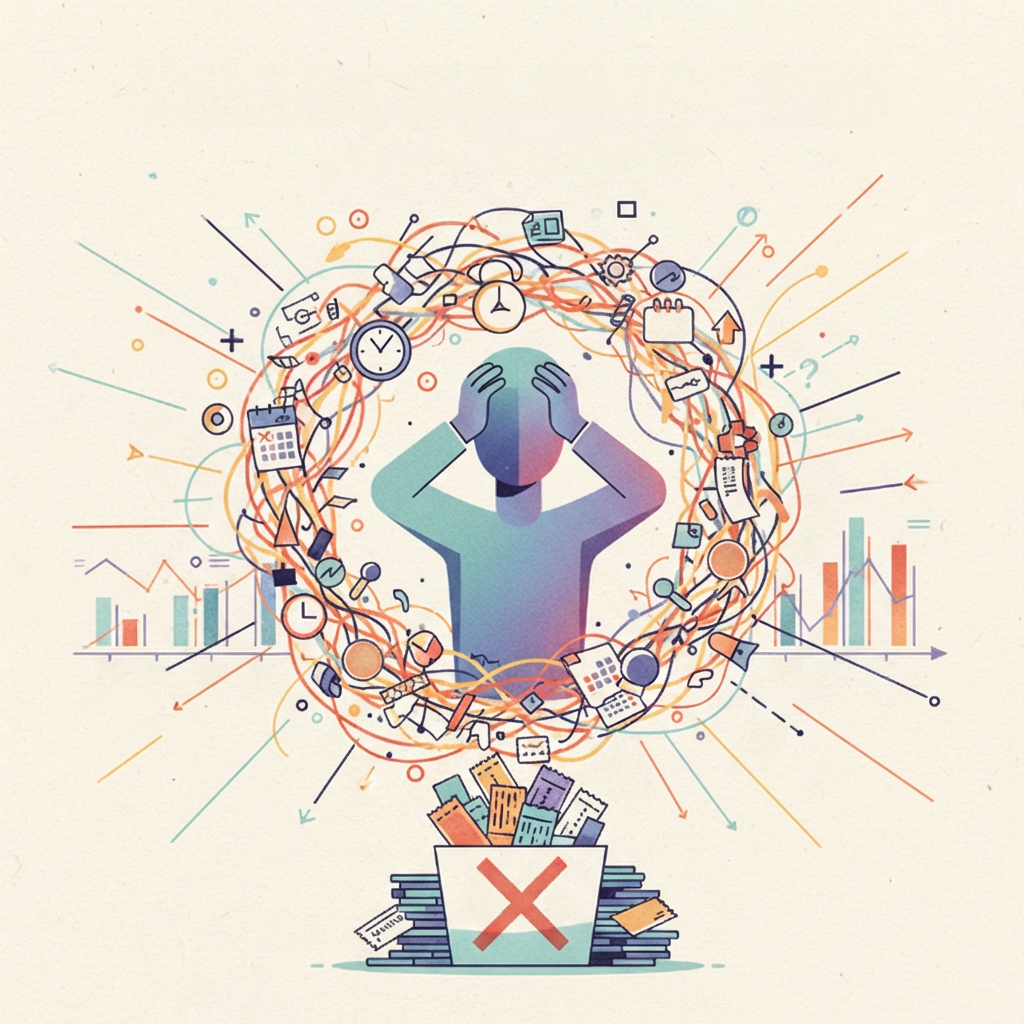
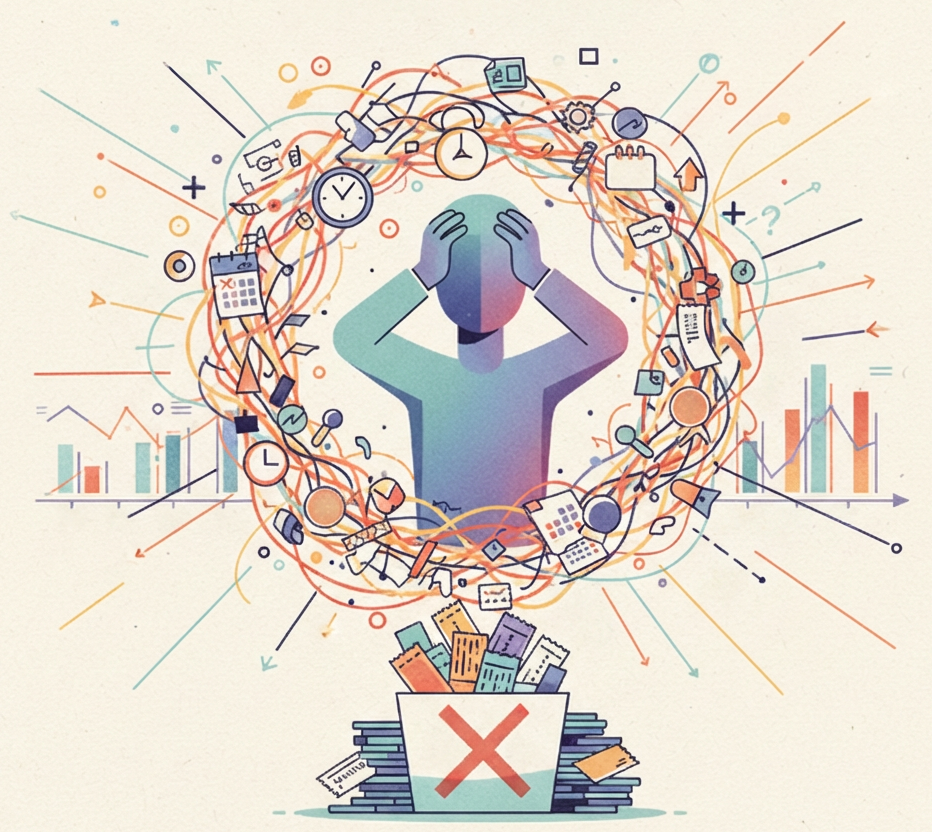
Keep building the new article about short-term planning

diff --git a/short-term-planning/index.html b/short-term-planning/index.html
@@ -213,7 +213,7 @@
                     </p>
 
                     <figure class="article-figure">
-                        <img src="img/gaussian.jpg" alt="PERFECT Code Review Pyramid" class="article-image">
+                        <img src="img/estimation_error_destribution.png" alt="PERFECT Code Review Pyramid" class="article-image">
                         <figcaption class="article-caption">
                             Preferred Distribution of Estimation Error
                         </figcaption>